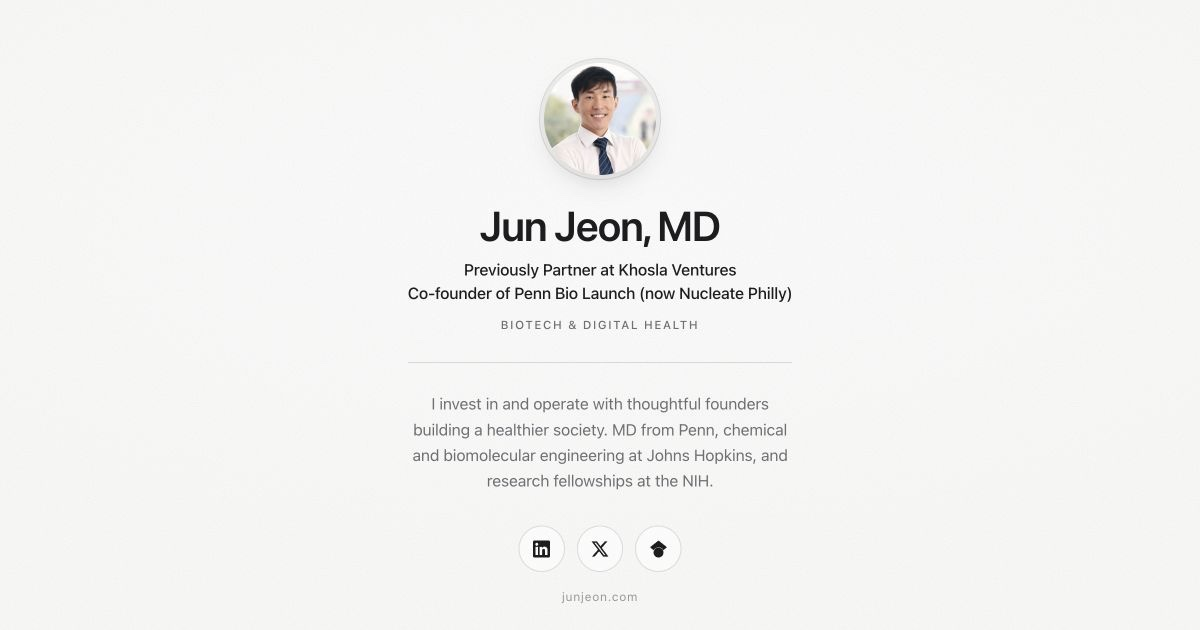
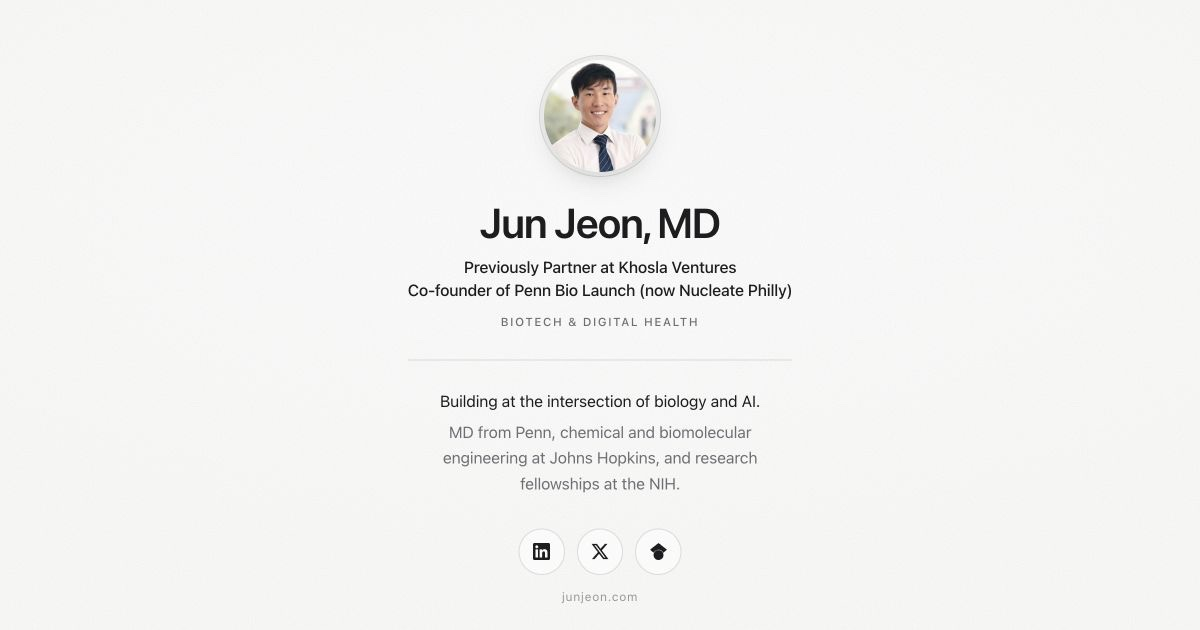
Bio: building at the intersection of biology and AI

diff --git a/index.html b/index.html
@@ -6,7 +6,7 @@
     <title>Jun Jeon, MD</title>
     <meta
       name="description"
-      content="Jun Jeon, MD. Previously Partner at Khosla Ventures and co-founder of Penn Bio Launch (now Nucleate Philly). Biotech and digital health."
+      content="Jun Jeon, MD. Building at the intersection of biology and AI. Previously Partner at Khosla Ventures and co-founder of Penn Bio Launch (now Nucleate Philly)."
     />
     <link rel="canonical" href="https://junjeon.com/" />
     <meta name="theme-color" content="#fcfcfb" />
@@ -16,7 +16,7 @@
     <meta property="og:title" content="Jun Jeon, MD" />
     <meta
       property="og:description"
-      content="Previously Partner at Khosla Ventures and co-founder of Penn Bio Launch (now Nucleate Philly). Biotech and digital health."
+      content="Building at the intersection of biology and AI. Previously Partner at Khosla Ventures and co-founder of Penn Bio Launch (now Nucleate Philly)."
     />
     <meta property="og:image" content="https://junjeon.com/images/og.jpg" />
     <meta property="og:image:width" content="1200" />
@@ -33,7 +33,7 @@
       href="https://fonts.googleapis.com/css2?family=Inter:wght@400;500;600&display=swap"
     />
     <!-- Bump ?v= when styles.css changes so browsers skip their cached copy. -->
-    <link rel="stylesheet" href="styles.css?v=6" />
+    <link rel="stylesheet" href="styles.css?v=7" />
     <script>
       if (location.pathname === "/index.html") history.replaceState(null, "", "/");
     </script>
@@ -56,9 +56,9 @@
       <p class="tagline">Biotech &amp; digital health</p>
 
       <p class="bio">
-        I invest in and operate with thoughtful founders building a healthier
-        society. MD from Penn, chemical and biomolecular engineering at Johns
-        Hopkins, and research fellowships at the NIH.
+        <span class="lead">Building at the intersection of biology and AI.</span>
+        MD from Penn, chemical and biomolecular engineering at Johns Hopkins,
+        and research fellowships at the NIH.
       </p>
 
       <nav class="links" aria-label="Profiles">

diff --git a/styles.css b/styles.css
@@ -124,6 +124,12 @@ h1 {
   text-wrap: pretty;
 }
 
+.bio .lead {
+  display: block;
+  margin-bottom: 0.35rem;
+  color: var(--ink);
+}
+
 .links {
   display: flex;
   justify-content: center;
